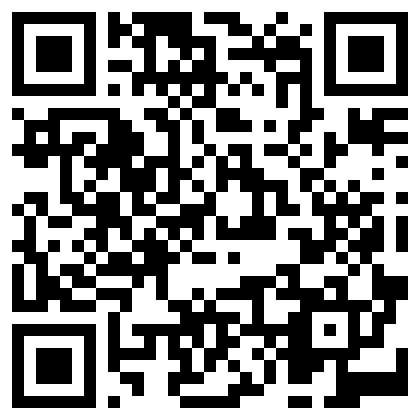
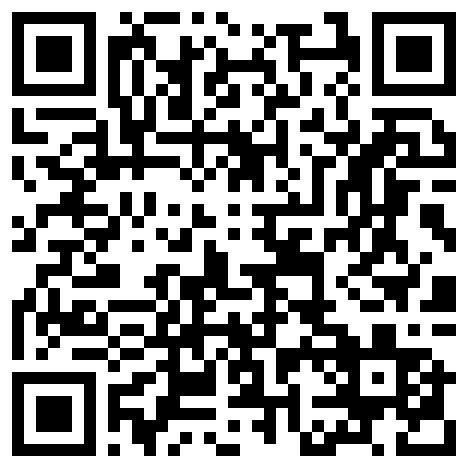
update

diff --git a/index.html b/index.html
@@ -153,9 +153,10 @@
         <li>Real physics: rolling, bouncing, see-saws, heavy metal blocks and moving ice platforms</li>
         <li>Three stars in every level and a time bonus: the faster you solve a level, the higher your score</li>
         <li>A world map with a photo of every level, so you can replay any level you have unlocked to improve your result</li>
-        <li>Skip a level that has you stuck and carry on with the next one</li>
-        <li>Plays fully offline and collects no data</li>
-        <li>Completely free: no ads, no in-app purchases and no data collection</li>
+        <li>Free replays every day, and a short ad gives you more when you run out</li>
+        <li>Skip a level that has you stuck by watching a short ad</li>
+        <li>Free to play with ads. Pro removes the ads that interrupt you for good; Premium removes all ads, gives unlimited replays and opens every country without collecting stars</li>
+        <li>Plays offline (ads and purchases need an internet connection)</li>
         <li>Plays on iPhone and iPad</li>
       </ul>
       <p>Can you feed the capybara in all 30 levels?</p>
@@ -178,9 +179,10 @@
         <li>Vật lý chân thực: lăn, nảy, bập bênh, khối kim loại nặng và bệ băng di động</li>
         <li>Ba ngôi sao mỗi màn và điểm thưởng thời gian: giải càng nhanh, điểm càng cao</li>
         <li>Bản đồ thế giới có ảnh của từng màn, để chơi lại bất kỳ màn nào đã mở khoá và cải thiện kết quả</li>
-        <li>Bỏ qua màn đang bí để chơi tiếp màn sau</li>
-        <li>Chơi hoàn toàn offline và không thu thập dữ liệu</li>
-        <li>Hoàn toàn miễn phí: không quảng cáo, không mua trong ứng dụng và không thu thập dữ liệu</li>
+        <li>Mỗi ngày có lượt chơi lại miễn phí, hết lượt thì xem quảng cáo ngắn để nhận thêm</li>
+        <li>Bỏ qua màn đang bí bằng cách xem quảng cáo ngắn</li>
+        <li>Miễn phí có quảng cáo. Pro bỏ vĩnh viễn các quảng cáo xen kẽ; Premium bỏ toàn bộ quảng cáo, replay không giới hạn và mở mọi quốc gia mà không cần gom sao</li>
+        <li>Chơi được offline (quảng cáo và mua hàng cần internet)</li>
         <li>Chơi được trên iPhone và iPad</li>
       </ul>
       <p>Bạn có cho chú capybara ăn xong cả 30 màn không?</p>
@@ -188,18 +190,18 @@
   </section>
 
   <!-- Download -->
-  <section id="download" class="download" hidden> <!-- hidden until the app is live: remove "hidden" -->
+  <section id="download" class="download">
     <div data-lang="en">
       <h2>Get Capybara Around the World</h2>
       <p>Free on the App Store for iPhone and iPad.</p>
-      <a class="store-btn" href="https://apps.apple.com/vn/app/redball-2d/id6829455439"><span class="label"><small>Download on the</small>App Store</span></a>
+      <a class="store-btn" href="https://apps.apple.com/vn/app/capybara-around-the-world/id6829455439"><span class="label"><small>Download on the</small>App Store</span></a>
       <img class="qr" src="qr-appstore.png" alt="QR code to download Capybara Around the World on the App Store" width="168" height="168">
       <p class="muted">Or scan this QR code with your camera.</p>
     </div>
     <div data-lang="vi">
       <h2>Tải Capybara Around the World</h2>
       <p>Miễn phí trên App Store cho iPhone và iPad.</p>
-      <a class="store-btn" href="https://apps.apple.com/vn/app/redball-2d/id6829455439"><span class="label"><small>Tải xuống trên</small>App Store</span></a>
+      <a class="store-btn" href="https://apps.apple.com/vn/app/capybara-around-the-world/id6829455439"><span class="label"><small>Tải xuống trên</small>App Store</span></a>
       <img class="qr" src="qr-appstore.png" alt="Mã QR tải Capybara Around the World trên App Store" width="168" height="168">
       <p class="muted">Hoặc quét mã QR này bằng camera.</p>
     </div>
@@ -223,13 +225,19 @@
       <p>Each level starts at 3000 points that count down once you start playing, plus 1000 points for every star you collect.</p>
 
       <h3>How do I open the next country?</h3>
-      <p>Collect at least 9 of the 15 stars of a country to open the next one. The world map shows how many you have.</p>
+      <p>Collect at least 9 of the 15 stars of a country to open the next one. The world map shows how many you have. <em>Premium</em> opens every country right away.</p>
 
       <h3>How do I replay a level?</h3>
-      <p>Tap <em>Level select</em> on the finish screen or in the pause menu, use the arrows to travel to a country and tap any unlocked level. The best score of each level is kept.</p>
+      <p>Tap <em>Replay</em> (the circular arrow) at the top right of a level or on the finish screen. To play another level, tap the <em>Level select</em> icon at the bottom left of a level or on the finish screen, use the arrows to travel to a country and tap any unlocked level. The best score of each level is kept.</p>
+
+      <h3>How do replays work?</h3>
+      <p>You get a number of free replays every day, and the count resets daily. The number on the Replay icon shows how many you have left. When they run out, tap the <em>Watch ad</em> button to earn more by watching a short ad. Replays earned from ads add up and never expire. Players who bought <em>Premium</em> have unlimited replays.</p>
 
       <h3>I am stuck on a level</h3>
-      <p>Tap the pause button (II) at the top right and choose <em>Skip level</em> (the arrow icon). The next level unlocks, and you can come back to the skipped one at any time.</p>
+      <p>Tap the pause button (II) at the top right and choose <em>Skip level</em> (the arrow icon). You watch a short ad first (not with <em>Pro</em> or <em>Premium</em>). The next level unlocks, and you can come back to the skipped one at any time.</p>
+
+      <h3>What are Pro and Premium?</h3>
+      <p>Both are one-time purchases. <em>Pro</em> removes the ads that interrupt you (the ad after a level and the ad before skipping a level); the optional ad for extra replays stays. <em>Premium</em> removes all ads, gives unlimited replays and opens every country without collecting stars. Open <em>Settings</em> (the gear on the main menu) to buy them or to <em>Restore Purchases</em> on a new device.</p>
 
       <h3>How do I turn the sound off?</h3>
       <p>Tap the speaker button in a level (top bar), on the world map (next to the menu button) or in <em>Settings</em> (the gear on the main menu). It switches all sound on or off, and the choice is remembered.</p>
@@ -254,16 +262,22 @@
       <p>Mỗi màn bắt đầu từ 3000 điểm và giảm dần khi bạn bắt đầu chơi, cộng thêm 1000 điểm cho mỗi ngôi sao gom được.</p>
 
       <h3>Làm sao mở quốc gia tiếp theo?</h3>
-      <p>Gom ít nhất 9 trên 15 ngôi sao của một quốc gia để mở quốc gia kế. Bản đồ thế giới cho biết bạn đã có bao nhiêu sao.</p>
+      <p>Gom ít nhất 9 trên 15 ngôi sao của một quốc gia để mở quốc gia kế. Bản đồ thế giới cho biết bạn đã có bao nhiêu sao. <em>Premium</em> mở ngay mọi quốc gia.</p>
 
       <h3>Làm sao chơi lại một màn?</h3>
-      <p>Chạm <em>Chọn màn</em> ở màn hình kết thúc hoặc trong menu tạm dừng, dùng mũi tên để đến một quốc gia rồi chạm vào màn đã mở khoá. Điểm cao nhất của từng màn được lưu lại.</p>
+      <p>Chạm <em>Chơi lại</em> (mũi tên tròn) ở góc trên bên phải màn chơi hoặc ở màn hình kết thúc. Để chơi màn khác, chạm biểu tượng <em>Chọn màn</em> ở góc dưới bên trái màn chơi hoặc ở màn hình kết thúc, dùng mũi tên để đến một quốc gia rồi chạm vào màn đã mở khoá. Điểm cao nhất của từng màn được lưu lại.</p>
+
+      <h3>Lượt chơi lại hoạt động thế nào?</h3>
+      <p>Mỗi ngày bạn có một số lượt chơi lại miễn phí và số lượt được đặt lại hằng ngày. Con số trên biểu tượng Chơi lại cho biết bạn còn bao nhiêu lượt. Khi hết lượt, chạm nút <em>Xem quảng cáo</em> để nhận thêm bằng cách xem một quảng cáo ngắn. Lượt nhận từ quảng cáo được cộng dồn và không hết hạn. Người đã mua <em>Premium</em> có lượt chơi lại không giới hạn.</p>
 
       <h3>Tôi bị kẹt ở một màn</h3>
-      <p>Chạm nút tạm dừng (II) ở góc trên bên phải rồi chọn <em>Bỏ qua màn</em> (biểu tượng mũi tên). Màn tiếp theo sẽ được mở khoá và bạn có thể quay lại màn đã bỏ qua bất cứ lúc nào.</p>
+      <p>Chạm nút tạm dừng (II) ở góc trên bên phải rồi chọn <em>Bỏ qua màn</em> (biểu tượng mũi tên). Bạn sẽ xem một quảng cáo ngắn trước (không áp dụng với <em>Pro</em> hoặc <em>Premium</em>). Màn tiếp theo sẽ được mở khoá và bạn có thể quay lại màn đã bỏ qua bất cứ lúc nào.</p>
+
+      <h3>Pro và Premium là gì?</h3>
+      <p>Cả hai đều là giao dịch mua một lần. <em>Pro</em> bỏ các quảng cáo xen kẽ (quảng cáo sau mỗi màn và quảng cáo trước khi bỏ qua màn); quảng cáo tuỳ chọn để nhận thêm lượt chơi lại vẫn còn. <em>Premium</em> bỏ toàn bộ quảng cáo, lượt chơi lại không giới hạn và mở mọi quốc gia mà không cần gom sao. Mở <em>Cài đặt</em> (biểu tượng bánh răng ở menu chính) để mua hoặc <em>Khôi phục giao dịch</em> trên thiết bị mới.</p>
 
       <h3>Làm sao tắt âm thanh?</h3>
-      <p>Chạm nút loa trong màn chơi (thanh trên cùng), trên bản đồ thế giới (cạnh nút menu) hoặc trong <em>Cài đặt</em> (biểu tượng bánh răng ở menu chính). Nút này bật hoặc tắt toàn bộ âm thanh và lựa chọn được ghi nhớ.</p>
+      <p>Chạm nút loa trong màn chơi (thanh trên cùng), trên bản đồ thế giới (cạnh nút Home) hoặc trong <em>Cài đặt</em> (biểu tượng bánh răng ở menu chính). Nút này bật hoặc tắt toàn bộ âm thanh và lựa chọn được ghi nhớ.</p>
 
       <h3>Tiến trình của tôi bị mất</h3>
       <p>Tiến trình chỉ được lưu trên thiết bị của bạn. Xoá ứng dụng hoặc chọn <em>Xoá tiến trình</em> ở menu chính cũng sẽ xoá các màn đã mở khoá và điểm số.</p>
@@ -278,16 +292,31 @@
       <p>This policy explains how the Capybara Around the World app (“the app”) handles your information.</p>
 
       <h3>Data we collect</h3>
-      <p>None. The app has no ads, no purchases, no accounts, no analytics and no third-party SDKs, and it never sends any data off your device.</p>
+      <p>The app has no accounts and we do not ask for your name, email or any other personal details. We do not collect your game progress: it stays on your device.</p>
+      <p>The app uses third-party services that collect some data on our behalf or their own:</p>
+      <ul>
+        <li><strong>Google AdMob</strong> shows the ads. It may collect device identifiers (such as the advertising identifier, if you allow tracking), IP address, approximate location and ad interaction data to serve and measure ads and prevent fraud.</li>
+        <li><strong>Firebase Analytics</strong> records anonymous usage events (for example a level started, finished or skipped) and device and app information, to help us improve the game.</li>
+        <li><strong>Firebase Remote Config</strong> downloads app settings, such as how many free replays you get each day.</li>
+        <li><strong>Apple</strong> handles purchases. We never see your payment details.</li>
+      </ul>
+
+      <h3>Your choices</h3>
+      <ul>
+        <li>On first launch the app asks permission to track you across other companies’ apps and websites. If you decline, ads are not personalized.</li>
+        <li>If you are in the European Economic Area, the United Kingdom or a similar region, a consent form lets you choose how ad data is used.</li>
+        <li>You can buy <em>Pro</em> to remove the ads that interrupt you, or <em>Premium</em> to remove all ads.</li>
+        <li>You can change tracking permission at any time in iOS Settings → Privacy &amp; Security → Tracking.</li>
+      </ul>
 
       <h3>Data stored on your device</h3>
-      <p>The app saves your unlocked levels, your best scores and stars, and your sound setting locally on your device. This data stays on your device and is removed when you delete the app or tap <em>Clear progress</em>.</p>
+      <p>The app saves your unlocked levels, your best scores and stars, your replay count, and your sound and language settings locally on your device. This data stays on your device and is removed when you delete the app or tap <em>Clear progress</em>.</p>
 
       <h3>Internet</h3>
-      <p>The game works completely offline and never needs an internet connection.</p>
+      <p>The game plays offline. An internet connection is only needed to show ads, to buy or restore purchases and to update the app settings.</p>
 
       <h3>Children’s privacy</h3>
-      <p>Capybara Around the World is suitable for everyone. Because we collect no data at all, we do not collect personal information from children either.</p>
+      <p>We do not knowingly collect personal information from children. Ads are served by Google AdMob and are limited by the settings above. Parents can remove all ads with a one-time purchase of Premium.</p>
 
       <h3>Changes to this policy</h3>
       <p>If this policy changes, we will update this page and the date above.</p>
@@ -302,16 +331,31 @@
       <p>Chính sách này giải thích cách ứng dụng Capybara Around the World (“ứng dụng”) xử lý thông tin của bạn.</p>
 
       <h3>Dữ liệu chúng tôi thu thập</h3>
-      <p>Không có. Ứng dụng không có quảng cáo, không có giao dịch mua, không có tài khoản, không phân tích và không dùng SDK của bên thứ ba, đồng thời không bao giờ gửi dữ liệu nào ra khỏi thiết bị của bạn.</p>
+      <p>Ứng dụng không có tài khoản và chúng tôi không yêu cầu tên, email hay bất kỳ thông tin cá nhân nào. Chúng tôi không thu thập tiến trình chơi của bạn: dữ liệu này chỉ nằm trên thiết bị.</p>
+      <p>Ứng dụng dùng các dịch vụ của bên thứ ba, họ có thể thu thập một số dữ liệu thay mặt chúng tôi hoặc cho mục đích riêng của họ:</p>
+      <ul>
+        <li><strong>Google AdMob</strong> hiển thị quảng cáo. Dịch vụ này có thể thu thập mã định danh thiết bị (như mã định danh quảng cáo, nếu bạn cho phép theo dõi), địa chỉ IP, vị trí gần đúng và dữ liệu tương tác với quảng cáo để phân phối, đo lường quảng cáo và chống gian lận.</li>
+        <li><strong>Firebase Analytics</strong> ghi lại các sự kiện sử dụng ẩn danh (ví dụ bắt đầu, hoàn thành hoặc bỏ qua một màn) cùng thông tin thiết bị và ứng dụng, giúp chúng tôi cải thiện trò chơi.</li>
+        <li><strong>Firebase Remote Config</strong> tải các cài đặt của ứng dụng, chẳng hạn mỗi ngày bạn có bao nhiêu lượt chơi lại miễn phí.</li>
+        <li><strong>Apple</strong> xử lý các giao dịch mua. Chúng tôi không bao giờ thấy thông tin thanh toán của bạn.</li>
+      </ul>
+
+      <h3>Lựa chọn của bạn</h3>
+      <ul>
+        <li>Lần đầu mở ứng dụng, ứng dụng xin phép theo dõi bạn trên các ứng dụng và trang web của công ty khác. Nếu bạn từ chối, quảng cáo sẽ không được cá nhân hoá.</li>
+        <li>Nếu bạn ở Khu vực Kinh tế Châu Âu, Vương quốc Anh hoặc khu vực tương tự, một biểu mẫu đồng ý cho phép bạn chọn cách dữ liệu quảng cáo được sử dụng.</li>
+        <li>Bạn có thể mua <em>Pro</em> để bỏ các quảng cáo xen kẽ, hoặc <em>Premium</em> để bỏ toàn bộ quảng cáo.</li>
+        <li>Bạn có thể đổi quyền theo dõi bất cứ lúc nào trong Cài đặt iOS → Quyền riêng tư &amp; Bảo mật → Theo dõi.</li>
+      </ul>
 
       <h3>Dữ liệu lưu trên thiết bị</h3>
-      <p>Ứng dụng lưu các màn đã mở khoá, điểm cao nhất, số sao và cài đặt âm thanh ngay trên thiết bị của bạn. Dữ liệu này chỉ nằm trên thiết bị và sẽ bị xoá khi bạn xoá ứng dụng hoặc chọn <em>Xoá tiến trình</em>.</p>
+      <p>Ứng dụng lưu các màn đã mở khoá, điểm cao nhất, số sao, số lượt chơi lại cùng cài đặt âm thanh và ngôn ngữ ngay trên thiết bị của bạn. Dữ liệu này chỉ nằm trên thiết bị và sẽ bị xoá khi bạn xoá ứng dụng hoặc chọn <em>Xoá tiến trình</em>.</p>
 
       <h3>Internet</h3>
-      <p>Trò chơi hoạt động hoàn toàn offline và không bao giờ cần kết nối internet.</p>
+      <p>Trò chơi chơi được offline. Chỉ cần kết nối internet để hiển thị quảng cáo, mua hoặc khôi phục giao dịch và cập nhật cài đặt ứng dụng.</p>
 
       <h3>Quyền riêng tư của trẻ em</h3>
-      <p>Capybara Around the World phù hợp với mọi lứa tuổi. Vì chúng tôi không thu thập bất kỳ dữ liệu nào nên cũng không thu thập thông tin cá nhân của trẻ em.</p>
+      <p>Chúng tôi không cố ý thu thập thông tin cá nhân của trẻ em. Quảng cáo do Google AdMob phân phối và bị giới hạn bởi các cài đặt ở trên. Phụ huynh có thể bỏ toàn bộ quảng cáo bằng một giao dịch mua Premium một lần.</p>
 
       <h3>Thay đổi chính sách</h3>
       <p>Nếu chính sách thay đổi, chúng tôi sẽ cập nhật trang này và ngày ở trên.</p>
@@ -322,7 +366,7 @@
   </section>
 </main>
 
-<footer>© 2026 Capybara Around the World · Version 1.0.0</footer>
+<footer>© 2026 Capybara Around the World · Version 1.0.1</footer>
 
 <script>
   (function () {
